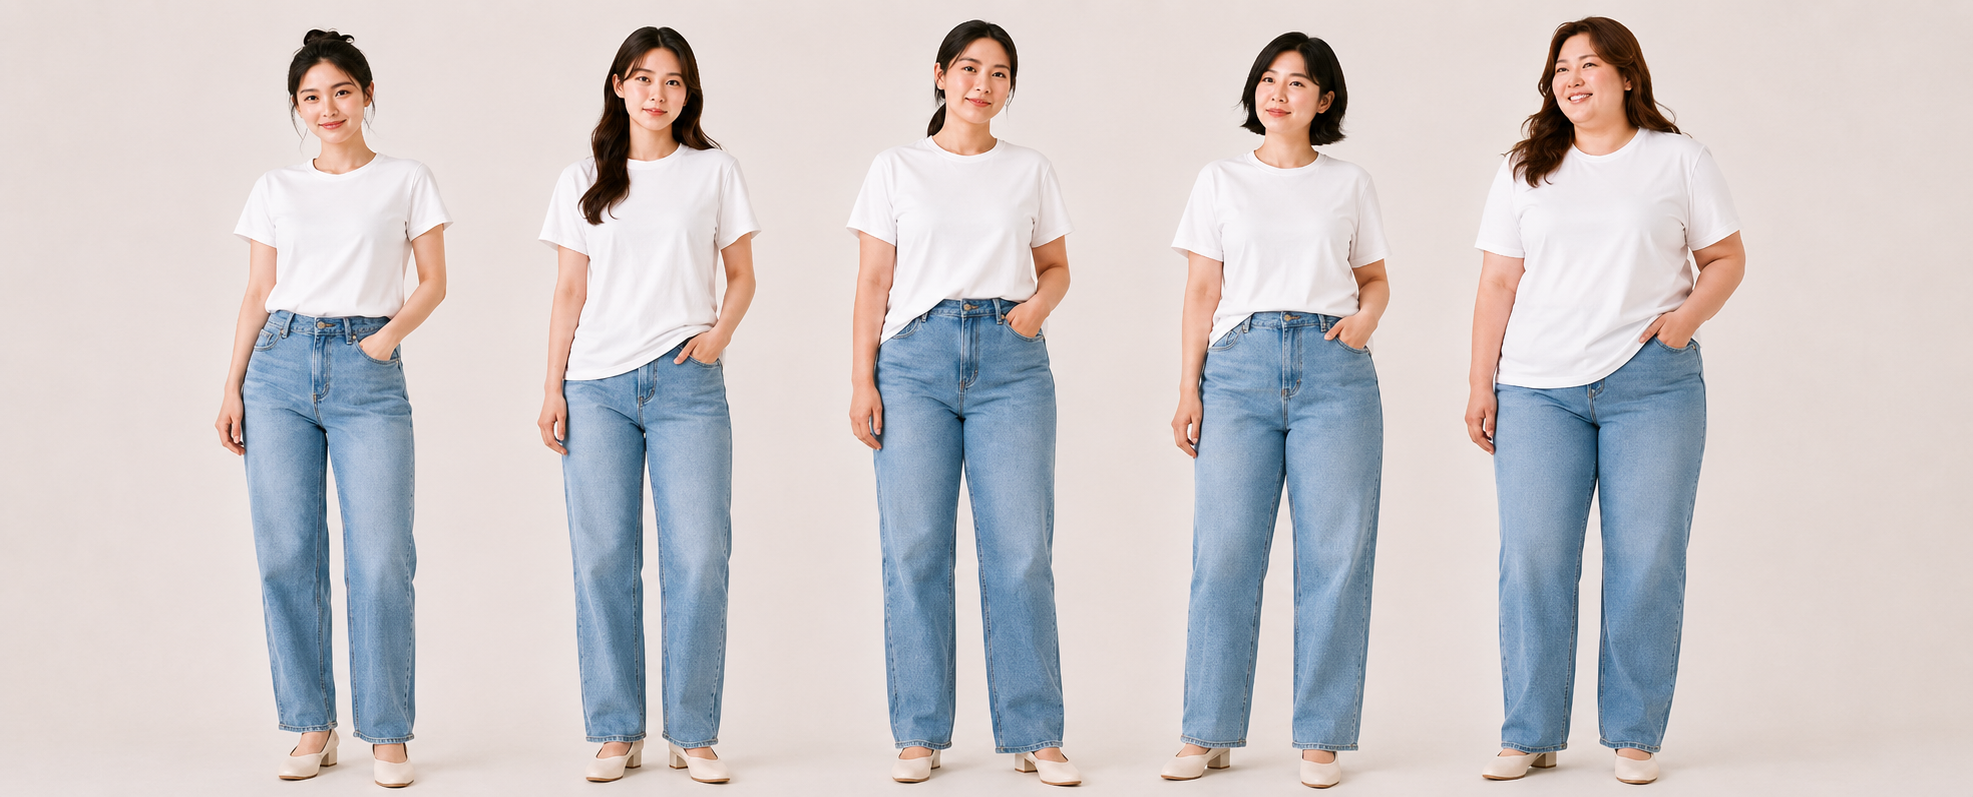
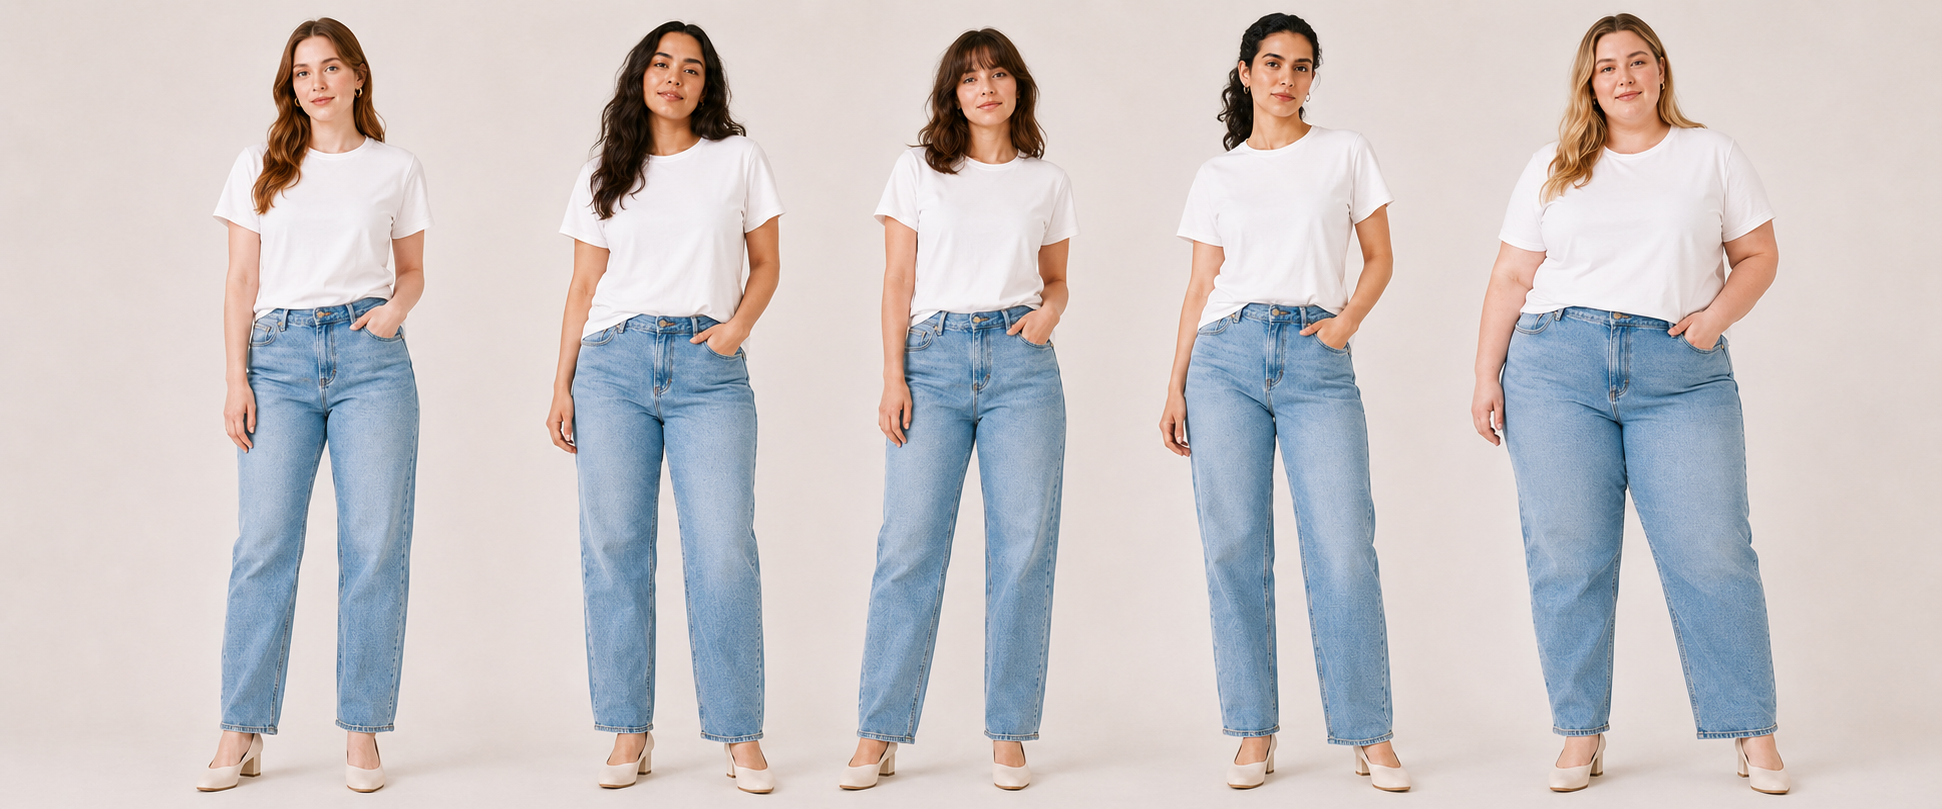
feat: 전체 페이지 UI 수정 및 업데이트
- index, login, join, find-id, reset-password 페이지 수정
- cart, mypage, wishlist, product-detail 페이지 수정
- product-detail.js 업데이트
- banner1.png 이미지 교체

diff --git a/index.html b/index.html
@@ -4,7 +4,7 @@
   <meta charset="UTF-8" />
   <meta name="viewport" content="width=device-width, initial-scale=1.0" />
   <title>이지핏 | 공식 온라인 몰</title>
-  <link rel="stylesheet" href="./style.css?v=20260630-hover-effect" />
+  <link rel="stylesheet" href="./style.css?v=20260701-layout-sync" />
   <link rel="icon" href="img/Favicon.png" type="image/png">
   <link rel="shortcut icon" href="img/Favicon.png">
   <link rel="preconnect" href="https://fonts.googleapis.com">
@@ -179,8 +179,8 @@
                 <span class="color-chip chip-black"></span>
               </div>
             </div>
-            <p class="product-brand">TOP</p>
-            <p class="product-name">꼬나시 데님 원피스</p>
+            <p class="product-brand">PANTS</p>
+            <p class="product-name">워싱 루즈핏 데님 팬츠</p>
             <div class="price-row">
               <strong>15,900</strong>
               <del>25,900</del>
@@ -209,8 +209,8 @@
                 <span class="color-chip chip-black"></span>
               </div>
             </div>
-            <p class="product-brand">BOTTOM</p>
-            <p class="product-name">릴랙스 와이드 데님 팬츠</p>
+            <p class="product-brand">SKIRT</p>
+            <p class="product-name">프론트 슬릿 데님 롱스커트</p>
             <div class="price-row">
               <strong>29,900</strong>
               <del>39,900</del>
@@ -239,8 +239,8 @@
                 <span class="color-chip chip-black"></span>
               </div>
             </div>
-            <p class="product-brand">SHIRT</p>
-            <p class="product-name">소프트 미니멀 셔츠</p>
+            <p class="product-brand">PANTS</p>
+            <p class="product-name">딥블루 와이드 밴딩 팬츠</p>
             <div class="price-row">
               <strong>32,900</strong>
               <del>45,900</del>
@@ -270,7 +270,7 @@
               </div>
             </div>
             <p class="product-brand">TOP</p>
-            <p class="product-name">데일리 라운드 티셔츠</p>
+            <p class="product-name">베이직 브이넥 반팔 티셔츠</p>
             <div class="price-row">
               <strong>19,900</strong>
               <del>29,900</del>
@@ -343,7 +343,7 @@
               </div>
             </div>
             <p class="product-brand">TOP</p>
-            <p class="product-name">슬림핏 코튼 셔츠</p>
+            <p class="product-name">포켓 코튼 반팔 티셔츠</p>
             <div class="price-row">
               <strong>24,900</strong>
               <del>34,900</del>
@@ -372,8 +372,8 @@
                 <span class="color-chip chip-black"></span>
               </div>
             </div>
-            <p class="product-brand">BOTTOM</p>
-            <p class="product-name">에센셜 와이드 슬랙스</p>
+            <p class="product-brand">PANTS</p>
+            <p class="product-name">에션셜 와이드 코튼 팬츠</p>
             <div class="price-row">
               <strong>39,900</strong>
               <del>49,900</del>
@@ -402,8 +402,8 @@
                 <span class="color-chip chip-black"></span>
               </div>
             </div>
-            <p class="product-brand">KNIT</p>
-            <p class="product-name">미니멀 니트 탑</p>
+            <p class="product-brand">TOP</p>
+            <p class="product-name">스트라이프 보트넥 탑</p>
             <div class="price-row">
               <strong>27,900</strong>
               <del>35,900</del>
@@ -432,8 +432,8 @@
                 <span class="color-chip chip-black"></span>
               </div>
             </div>
-            <p class="product-brand">DENIM</p>
-            <p class="product-name">릴랙스 핏 데님</p>
+            <p class="product-brand">SHIRT</p>
+            <p class="product-name">루즈핏 코튼 셔츠</p>
             <div class="price-row">
               <strong>34,900</strong>
               <del>44,900</del>
@@ -462,8 +462,8 @@
                 <span class="color-chip chip-gray"></span>
               </div>
             </div>
-            <p class="product-brand">OUTER</p>
-            <p class="product-name">오버핏 셔츠 자켓</p>
+            <p class="product-brand">SHIRT</p>
+            <p class="product-name">라이트 블루 반팔 셔츠</p>
             <div class="price-row">
               <strong>45,900</strong>
               <del>59,900</del>
@@ -493,7 +493,7 @@
               </div>
             </div>
             <p class="product-brand">TOP</p>
-            <p class="product-name">베이직 하프 티셔츠</p>
+            <p class="product-name">슬리브리스 코튼 탑</p>
             <div class="price-row">
               <strong>15,900</strong>
               <del>22,900</del>
@@ -522,8 +522,8 @@
                 <span class="color-chip chip-black"></span>
               </div>
             </div>
-            <p class="product-brand">BOTTOM</p>
-            <p class="product-name">컴포트 밴딩 팬츠</p>
+            <p class="product-brand">TOP</p>
+            <p class="product-name">스퀘어넥 롱슬리브 탑</p>
             <div class="price-row">
               <strong>31,900</strong>
               <del>42,900</del>
@@ -553,7 +553,7 @@
               </div>
             </div>
             <p class="product-brand">KNIT</p>
-            <p class="product-name">소프트 골지 니트</p>
+            <p class="product-name">스트라이프 슬리브리스 니트 탑</p>
             <div class="price-row">
               <strong>28,900</strong>
               <del>36,900</del>

diff --git a/product-detail.js b/product-detail.js
@@ -7,6 +7,30 @@ const rawId = new URLSearchParams(window.location.search).get("id") || "EF001";
 let product  = null;
 let sizeData = {};
 
+const MAIN_PRODUCT_META = {
+  EF001: { category: "PANTS", name: "워싱 루즈핏 데님 팬츠" },
+  EF002: { category: "SKIRT", name: "프론트 슬릿 데님 롱스커트" },
+  EF003: { category: "PANTS", name: "딥블루 와이드 밴딩 팬츠" },
+  EF004: { category: "TOP", name: "베이직 브이넥 반팔 티셔츠" },
+  EF005: { category: "TOP", name: "포켓 코튼 반팔 티셔츠" },
+  EF006: { category: "PANTS", name: "에션셜 와이드 코튼 팬츠" },
+  EF007: { category: "TOP", name: "스트라이프 보트넥 탑" },
+  EF008: { category: "SHIRT", name: "루즈핏 코튼 셔츠" },
+  EF009: { category: "SHIRT", name: "라이트 블루 반팔 셔츠" },
+  EF010: { category: "TOP", name: "슬리브리스 코튼 탑" },
+  EF011: { category: "TOP", name: "스퀘어넥 롱슬리브 탑" },
+  EF012: { category: "KNIT", name: "스트라이프 슬리브리스 니트 탑" }
+};
+
+function applyMainProductMeta(productData) {
+  const meta = MAIN_PRODUCT_META[productData.code];
+  if (!meta) return productData;
+  return {
+    ...productData,
+    category: meta.category,
+    name: meta.name
+  };
+}
 
 /* ── 현재 선택 상태 ─────────────────────────── */
 let currentColor    = '';
@@ -589,7 +613,7 @@ function getDetailWishlistItem(productData) {
   const colorObj = currentColorObj || productData.colors[0];
   return {
     id: productData.code,
-    category: "EASE FIT",
+    category: productData.category || "EASE FIT",
     name: productData.name,
     price: productData.price.replace("원", ""),
     originalPrice: "",
@@ -681,7 +705,7 @@ function addToCart(productData, opts) {
 
   items.push({
     id:       productData.code,
-    brand:    "EASE FIT",
+    brand:    productData.category || "EASE FIT",
     title:    productData.name,
     price:    priceNum,
     image:    image,
@@ -826,7 +850,7 @@ document.querySelectorAll(".modal-dim").forEach(dim => {
     (raw.product_variants || []).filter(v => v.in_stock).map(v => v.size)
   )].sort((a, b) => SIZE_ORDER.indexOf(a) - SIZE_ORDER.indexOf(b));
 
-  product = applyLocalImageSet({
+  product = applyMainProductMeta(applyLocalImageSet({
     code:         raw.code,
     name:         raw.name,
     price:        raw.price.toLocaleString('ko-KR') + '원',
@@ -835,7 +859,7 @@ document.querySelectorAll(".modal-dim").forEach(dim => {
     defaultSize:  raw.default_size,
     colors,
     sizes
-  });
+  }));
 
   /* ③ 사이즈 실측 fetch */
   const { data: sizeRows } = await db
@@ -1076,7 +1100,7 @@ function initRecentViewedProduct() {
   const firstColorObj = product.colors[0];
   saveRecentProduct({
     id:    product.code,
-    brand: "EASE FIT",
+    brand: product.category || "EASE FIT",
     title: product.name,
     price: product.price,
     image: firstColorObj ? firstColorObj.images[0] : "",

diff --git a/mypage.html b/mypage.html
@@ -195,10 +195,29 @@
       <div class="footer-info">
         <p>고객센터 : 1599-0007&nbsp;&nbsp;|&nbsp;&nbsp;e-mail : [email redacted]&nbsp;&nbsp;|&nbsp;&nbsp;운영시간 : 10:00 ~ 17:00 (점심 12:00 ~ 13:00 / 주말 및 공휴일 휴무)</p>
         <p>상호명 : EASE FIT&nbsp;&nbsp;|&nbsp;&nbsp;사업자등록번호 : 123-45-67890&nbsp;&nbsp;|&nbsp;&nbsp;통신판매업신고 : 2026-서울강남-0000</p>
-        <p>대표이사 : 차예림&nbsp;&nbsp;|&nbsp;&nbsp;주소 : 서울특별시 강남구 테헤란로 123&nbsp;&nbsp;|&nbsp;&nbsp;개인정보관리책임자 : 차예림</p>
+        <p>대표이사 : 차예림&nbsp;&nbsp;|&nbsp;&nbsp;주소 : 인천광역시 해운대 123&nbsp;&nbsp;|&nbsp;&nbsp;개인정보관리책임자 : 차예림</p>
       </div>
       <div class="footer-bottom">
         <p class="footer-copy">Copyright by EASE FIT. All Rights Reserved.</p>
+        <ul class="sns-list" aria-label="SNS 링크">
+          <li>
+            <a href="#" aria-label="Instagram">
+              <svg viewBox="0 0 24 24" width="14" height="14" fill="none" stroke="currentColor" stroke-width="1.6" stroke-linecap="round" stroke-linejoin="round" aria-hidden="true">
+                <rect x="2" y="2" width="20" height="20" rx="5" ry="5"/>
+                <circle cx="12" cy="12" r="4"/>
+                <circle cx="17.5" cy="6.5" r="0.6" fill="currentColor" stroke="none"/>
+              </svg>
+            </a>
+          </li>
+          <li>
+            <a href="#" aria-label="YouTube">
+              <svg viewBox="0 0 24 24" width="14" height="14" fill="none" stroke="currentColor" stroke-width="1.6" stroke-linecap="round" stroke-linejoin="round" aria-hidden="true">
+                <path d="M22.54 6.42a2.78 2.78 0 0 0-1.95-1.96C18.88 4 12 4 12 4s-6.88 0-8.59.46A2.78 2.78 0 0 0 1.46 6.42 29 29 0 0 0 1 12a29 29 0 0 0 .46 5.58A2.78 2.78 0 0 0 3.41 19.6C5.12 20.06 12 20.06 12 20.06s6.88 0 8.59-.46a2.78 2.78 0 0 0 1.95-1.95A29 29 0 0 0 23 12a29 29 0 0 0-.46-5.58z"/>
+                <polygon points="9.75 15.02 15.5 12 9.75 8.98 9.75 15.02" fill="currentColor" stroke="none"/>
+              </svg>
+            </a>
+          </li>
+        </ul>
       </div>
     </div>
   </footer>

diff --git a/product-detail.html b/product-detail.html
@@ -4,7 +4,7 @@
   <meta charset="UTF-8" />
   <meta name="viewport" content="width=device-width, initial-scale=1.0" />
   <title>릴랙스 코튼 셔츠 | EASE FIT</title>
-  <link rel="stylesheet" href="./style.css?v=20260630-image-fix" />
+  <link rel="stylesheet" href="./style.css?v=20260701-layout-sync" />
   <link rel="stylesheet" href="./product-detail.css?v=20260630-thumb-5" />
   <link rel="icon" href="img/Favicon.png" type="image/png">
   <link rel="shortcut icon" href="img/Favicon.png">
@@ -403,7 +403,7 @@
       <div class="footer-info">
         <p>고객센터 : 1599-0007&nbsp;&nbsp;|&nbsp;&nbsp;e-mail : [email redacted]&nbsp;&nbsp;|&nbsp;&nbsp;운영시간 : 10:00 ~ 17:00 (점심 12:00 ~ 13:00 / 주말 및 공휴일 휴무)</p>
         <p>상호명 : EASE FIT&nbsp;&nbsp;|&nbsp;&nbsp;사업자등록번호 : 123-45-67890&nbsp;&nbsp;|&nbsp;&nbsp;통신판매업신고 : 2026-서울강남-0000</p>
-        <p>대표이사 : 차예림&nbsp;&nbsp;|&nbsp;&nbsp;주소 : 서울특별시 강남구 테헤란로 123&nbsp;&nbsp;|&nbsp;&nbsp;개인정보관리책임자 : 차예림</p>
+        <p>대표이사 : 차예림&nbsp;&nbsp;|&nbsp;&nbsp;주소 : 인천광역시 해운대 123&nbsp;&nbsp;|&nbsp;&nbsp;개인정보관리책임자 : 차예림</p>
       </div>
 
       <div class="footer-bottom">

diff --git a/cart.html b/cart.html
@@ -179,7 +179,7 @@
       <div class="footer-info">
         <p>고객센터 : 1599-0007&nbsp;&nbsp;|&nbsp;&nbsp;e-mail : [email redacted]&nbsp;&nbsp;|&nbsp;&nbsp;운영시간 : 10:00 ~ 17:00 (점심 12:00 ~ 13:00 / 주말 및 공휴일 휴무)</p>
         <p>상호명 : EASE FIT&nbsp;&nbsp;|&nbsp;&nbsp;사업자등록번호 : 123-45-67890&nbsp;&nbsp;|&nbsp;&nbsp;통신판매업신고 : 2026-서울강남-0000</p>
-        <p>대표이사 : 차예림&nbsp;&nbsp;|&nbsp;&nbsp;주소 : 서울특별시 강남구 테헤란로 123&nbsp;&nbsp;|&nbsp;&nbsp;개인정보관리책임자 : 차예림</p>
+        <p>대표이사 : 차예림&nbsp;&nbsp;|&nbsp;&nbsp;주소 : 인천광역시 해운대 123&nbsp;&nbsp;|&nbsp;&nbsp;개인정보관리책임자 : 차예림</p>
       </div>
 
       <div class="footer-bottom">

diff --git a/find-id.html b/find-id.html
@@ -147,7 +147,7 @@
       <div class="footer-info">
         <p>고객센터 : 1599-0007&nbsp;&nbsp;|&nbsp;&nbsp;e-mail : [email redacted]&nbsp;&nbsp;|&nbsp;&nbsp;운영시간 : 10:00 ~ 17:00 (점심 12:00 ~ 13:00 / 주말 및 공휴일 휴무)</p>
         <p>상호명 : EASE FIT&nbsp;&nbsp;|&nbsp;&nbsp;사업자등록번호 : 123-45-67890&nbsp;&nbsp;|&nbsp;&nbsp;통신판매업신고 : 2026-서울강남-0000</p>
-        <p>대표이사 : 차예림&nbsp;&nbsp;|&nbsp;&nbsp;주소 : 서울특별시 강남구 테헤란로 123&nbsp;&nbsp;|&nbsp;&nbsp;개인정보관리책임자 : 차예림</p>
+        <p>대표이사 : 차예림&nbsp;&nbsp;|&nbsp;&nbsp;주소 : 인천광역시 해운대 123&nbsp;&nbsp;|&nbsp;&nbsp;개인정보관리책임자 : 차예림</p>
       </div>
       <div class="footer-bottom">
         <p class="footer-copy">Copyright by EASE FIT. All Rights Reserved.</p>

diff --git a/join.html b/join.html
@@ -224,7 +224,7 @@
       <div class="footer-info">
         <p>고객센터 : 1599-0007&nbsp;&nbsp;|&nbsp;&nbsp;e-mail : [email redacted]&nbsp;&nbsp;|&nbsp;&nbsp;운영시간 : 10:00 ~ 17:00 (점심 12:00 ~ 13:00 / 주말 및 공휴일 휴무)</p>
         <p>상호명 : EASE FIT&nbsp;&nbsp;|&nbsp;&nbsp;사업자등록번호 : 123-45-67890&nbsp;&nbsp;|&nbsp;&nbsp;통신판매업신고 : 2026-서울강남-0000</p>
-        <p>대표이사 : 차예림&nbsp;&nbsp;|&nbsp;&nbsp;주소 : 서울특별시 강남구 테헤란로 123&nbsp;&nbsp;|&nbsp;&nbsp;개인정보관리책임자 : 차예림</p>
+        <p>대표이사 : 차예림&nbsp;&nbsp;|&nbsp;&nbsp;주소 : 인천광역시 해운대 123&nbsp;&nbsp;|&nbsp;&nbsp;개인정보관리책임자 : 차예림</p>
       </div>
       <div class="footer-bottom">
         <p class="footer-copy">Copyright by EASE FIT. All Rights Reserved.</p>

diff --git a/login.html b/login.html
@@ -209,7 +209,7 @@
       <div class="footer-info">
         <p>고객센터 : 1599-0007&nbsp;&nbsp;|&nbsp;&nbsp;e-mail : [email redacted]&nbsp;&nbsp;|&nbsp;&nbsp;운영시간 : 10:00 ~ 17:00 (점심 12:00 ~ 13:00 / 주말 및 공휴일 휴무)</p>
         <p>상호명 : EASE FIT&nbsp;&nbsp;|&nbsp;&nbsp;사업자등록번호 : 123-45-67890&nbsp;&nbsp;|&nbsp;&nbsp;통신판매업신고 : 2026-서울강남-0000</p>
-        <p>대표이사 : 차예림&nbsp;&nbsp;|&nbsp;&nbsp;주소 : 서울특별시 강남구 테헤란로 123&nbsp;&nbsp;|&nbsp;&nbsp;개인정보관리책임자 : 차예림</p>
+        <p>대표이사 : 차예림&nbsp;&nbsp;|&nbsp;&nbsp;주소 : 인천광역시 해운대 123&nbsp;&nbsp;|&nbsp;&nbsp;개인정보관리책임자 : 차예림</p>
       </div>
       <div class="footer-bottom">
         <p class="footer-copy">Copyright by EASE FIT. All Rights Reserved.</p>

diff --git a/reset-password.html b/reset-password.html
@@ -170,7 +170,7 @@
       <div class="footer-info">
         <p>고객센터 : 1599-0007&nbsp;&nbsp;|&nbsp;&nbsp;e-mail : [email redacted]&nbsp;&nbsp;|&nbsp;&nbsp;운영시간 : 10:00 ~ 17:00 (점심 12:00 ~ 13:00 / 주말 및 공휴일 휴무)</p>
         <p>상호명 : EASE FIT&nbsp;&nbsp;|&nbsp;&nbsp;사업자등록번호 : 123-45-67890&nbsp;&nbsp;|&nbsp;&nbsp;통신판매업신고 : 2026-서울강남-0000</p>
-        <p>대표이사 : 차예림&nbsp;&nbsp;|&nbsp;&nbsp;주소 : 서울특별시 강남구 테헤란로 123&nbsp;&nbsp;|&nbsp;&nbsp;개인정보관리책임자 : 차예림</p>
+        <p>대표이사 : 차예림&nbsp;&nbsp;|&nbsp;&nbsp;주소 : 인천광역시 해운대 123&nbsp;&nbsp;|&nbsp;&nbsp;개인정보관리책임자 : 차예림</p>
       </div>
       <div class="footer-bottom">
         <p class="footer-copy">Copyright by EASE FIT. All Rights Reserved.</p>

diff --git a/wishlist.html b/wishlist.html
@@ -132,7 +132,7 @@
       <div class="footer-info">
         <p>고객센터 : 1599-0007&nbsp;&nbsp;|&nbsp;&nbsp;e-mail : [email redacted]&nbsp;&nbsp;|&nbsp;&nbsp;운영시간 : 10:00 ~ 17:00 (점심 12:00 ~ 13:00 / 주말 및 공휴일 휴무)</p>
         <p>상호명 : EASE FIT&nbsp;&nbsp;|&nbsp;&nbsp;사업자등록번호 : 123-45-67890&nbsp;&nbsp;|&nbsp;&nbsp;통신판매업신고 : 2026-서울강남-0000</p>
-        <p>대표이사 : 차예림&nbsp;&nbsp;|&nbsp;&nbsp;주소 : 서울특별시 강남구 테헤란로 123&nbsp;&nbsp;|&nbsp;&nbsp;개인정보관리책임자 : 차예림</p>
+        <p>대표이사 : 차예림&nbsp;&nbsp;|&nbsp;&nbsp;주소 : 인천광역시 해운대 123&nbsp;&nbsp;|&nbsp;&nbsp;개인정보관리책임자 : 차예림</p>
       </div>
 
       <div class="footer-bottom">